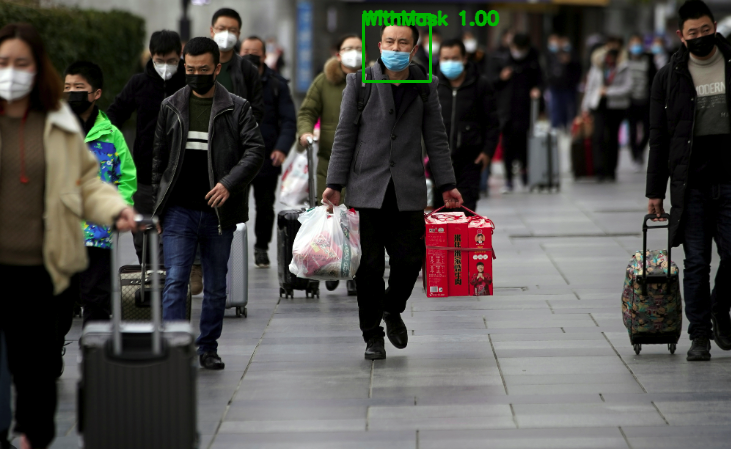
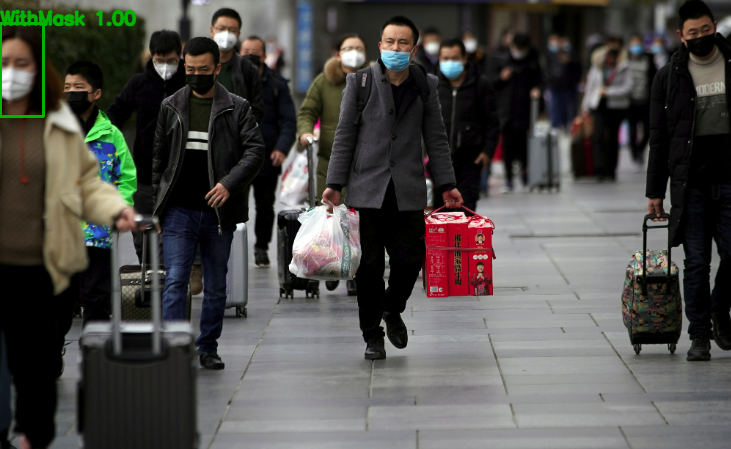
fix: optimize not mask

Changed region(s): [[0.4815, 0.0, 0.6922, 0.1871], [0.0, 0.0, 0.2107, 0.0624], [0.0, 0.2494, 0.0602, 0.2806]]

diff --git a/not_mask/not_mask.py b/not_mask/not_mask.py
@@ -134,13 +134,18 @@ def _load_image(image_path: Path):
 def _build_face_detector():
     if cv2 is None:
         return None
-    cascade_path = Path(cv2.data.haarcascades) / "haarcascade_frontalface_default.xml"
-    if not cascade_path.exists():
-        return None
-    cascade = cv2.CascadeClassifier(str(cascade_path))
-    if cascade.empty():
-        return None
-    return cascade
+    yunet_path = MODELS_DIR / "face_detection_yunet_2023mar.onnx"
+    if not yunet_path.exists():
+        # 回退到 Haar 级联作为备用方案
+        cascade_path = Path(cv2.data.haarcascades) / "haarcascade_frontalface_default.xml"
+        if not cascade_path.exists():
+            return None
+        cascade = cv2.CascadeClassifier(str(cascade_path))
+        if cascade.empty():
+            return None
+        return cascade
+    # 使用 YuNet 预训练模型，精度和速度均远超 Haar
+    return cv2.FaceDetectorYN.create(str(yunet_path), "", (320, 320))
 
 
 def build_csi_gstreamer_pipeline(
@@ -189,15 +194,32 @@ def _detect_faces(face_detector: Any, image: Any, min_face_size: int) -> list[li
     if face_detector is None or cv2 is None:
         return []
 
-    gray = cv2.cvtColor(image, cv2.COLOR_BGR2GRAY)
-    gray = cv2.equalizeHist(gray)
-    faces = face_detector.detectMultiScale(
-        gray,
-        scaleFactor=1.1,
-        minNeighbors=5,
-        minSize=(min_face_size, min_face_size),
-    )
-    return [[float(x), float(y), float(x + w), float(y + h)] for x, y, w, h in faces]
+    if hasattr(face_detector, "setInputSize"):
+        # YuNet 检测
+        height, width = image.shape[:2]
+        face_detector.setInputSize((width, height))
+        _, faces = face_detector.detect(image)
+        if faces is None:
+            return []
+        detected_boxes = []
+        for face in faces:
+            # face: [x, y, w, h, ...]
+            x, y, w, h = face[:4]
+            score = face[-1]
+            if w >= min_face_size and h >= min_face_size and score >= 0.6:
+                detected_boxes.append([float(x), float(y), float(x + w), float(y + h)])
+        return detected_boxes
+    else:
+        # Haar 级联检测 (备用)
+        gray = cv2.cvtColor(image, cv2.COLOR_BGR2GRAY)
+        gray = cv2.equalizeHist(gray)
+        faces = face_detector.detectMultiScale(
+            gray,
+            scaleFactor=1.1,
+            minNeighbors=5,
+            minSize=(min_face_size, min_face_size),
+        )
+        return [[float(x), float(y), float(x + w), float(y + h)] for x, y, w, h in faces]
 
 
 def _expand_box(box: Sequence[float], width: int, height: int, padding_ratio: float) -> list[int]:
@@ -494,6 +516,7 @@ class NotMaskDetector:
         quit_key: str = "q",
         warmup_frames: int = 5,
         max_failed_reads: int = 30,
+        process_every_n_frames: int = 5,  # 新增跳帧参数：每隔几帧推理一次
     ) -> None:
         _require_cv2()
         cap = open_camera(
@@ -506,9 +529,11 @@ class NotMaskDetector:
         if not cap.isOpened():
             raise RuntimeError(f"无法打开摄像头: {camera}")
 
-        print(f"实时识别已启动，摄像头={camera}，按 '{quit_key.upper()}' 退出。")
+        print(f"实时识别已启动，摄像头={camera}，每 {process_every_n_frames} 帧推理一次，按 '{quit_key.upper()}' 退出。")
         frame_count = 0
         failed_reads = 0
+        last_prediction = None  # 缓存上一帧的推理结果
+        last_annotated_frame = None
 
         try:
             for _ in range(max(warmup_frames, 0)):
@@ -532,14 +557,21 @@ class NotMaskDetector:
                 failed_reads = 0
 
                 frame_count += 1
-                prediction = self.predict_frame(
-                    frame,
-                    frame_name=f"camera:{camera}",
-                )
+                
+                # 核心跳帧逻辑：减少对 GPU/CPU 的瞬时过载
+                if frame_count % process_every_n_frames == 1 or last_prediction is None:
+                    last_prediction = self.predict_frame(
+                        frame,
+                        frame_name=f"camera:{camera}",
+                    )
+                    last_annotated_frame = _annotate_image(frame.copy(), last_prediction)
+                else:
+                    # 对于跳过的帧，把上次的框画在当前帧上
+                    last_annotated_frame = _annotate_image(frame.copy(), last_prediction)
 
                 if frame_log_interval > 0 and frame_count % frame_log_interval == 0:
-                    if prediction.face_detections:
-                        for detection in prediction.face_detections:
+                    if last_prediction.face_detections:
+                        for detection in last_prediction.face_detections:
                             status = "NO_MASK" if detection.is_no_mask else "MASK"
                             print(
                                 f"[DETECT] {status} {detection.label}: {detection.confidence:.2f}"
@@ -547,8 +579,7 @@ class NotMaskDetector:
                     else:
                         print("[DETECT] No faces in this frame.")
 
-                annotated_frame = _annotate_image(frame.copy(), prediction)
-                cv2.imshow(window_name, annotated_frame)
+                cv2.imshow(window_name, last_annotated_frame)
 
                 if cv2.waitKey(1) & 0xFF == ord(quit_key.lower()):
                     break

diff --git a/not_mask/not_mask_test.py b/not_mask/not_mask_test.py
@@ -57,6 +57,7 @@ def build_parser() -> argparse.ArgumentParser:
     parser.add_argument("--flip-method", type=int, default=0, help="CSI 摄像头翻转方式")
     parser.add_argument("--warmup-frames", type=int, default=5, help="摄像头预热读取帧数")
     parser.add_argument("--max-failed-reads", type=int, default=30, help="连续读帧失败多少次后终止")
+    parser.add_argument("--process-every-n-frames", type=int, default=5, help="实时摄像头跳帧数（每几帧推理一次）")
     parser.add_argument("--window-name", default="Not Mask Detection", help="实时识别窗口标题")
     parser.add_argument(
         "--output-dir",
@@ -118,6 +119,7 @@ def main() -> None:
             flip_method=args.flip_method,
             warmup_frames=args.warmup_frames,
             max_failed_reads=args.max_failed_reads,
+            process_every_n_frames=args.process_every_n_frames,
         )
         return
 

diff --git a/not_mask/README.md b/not_mask/README.md
@@ -4,7 +4,7 @@
 
 当前实现采用“两阶段”方案：
 
-- 第 1 步：使用 OpenCV 自带的人脸检测器找到人脸区域
+- 第 1 步：使用 OpenCV 深度学习人脸检测器 (YuNet) 找到人脸区域（比传统 Haar 级联更准更快）。
 - 第 2 步：把每张人脸裁剪后送入当前目录下的本地口罩分类模型，判断是 `WithoutMask` / `WithMask`，或兼容 `Face_Mask Not_Found` / `Face_Mask Found`
 
 这样做的目标是尽量复用开源现成权重，快速落地一个可运行的未戴口罩识别模块。
@@ -17,7 +17,8 @@ not_mask/
 │   ├── mask.png
 │   └── not-mask-leijun.jpg
 ├── models/
-│   └── face-mask-detection/ # 本地预训练模型目录
+│   ├── face-mask-detection/ # 本地预训练模型目录
+│   └── face_detection_yunet_2023mar.onnx # YuNet 预训练人脸检测模型
 ├── outputs/                # 运行后自动生成，可按需删除
 ├── not_mask.py             # 未戴口罩识别核心模块
 ├── not_mask_test.py        # 命令行测试入口
@@ -109,11 +110,14 @@ python3.11 not_mask_test.py --camera 0
 
 ```bash
 python3.11 not_mask_test.py --camera csi --width 1280 --height 720 --framerate 30
-python3.11 not_mask_test.py --camera usb --frame-log-interval 10
+python3.11 not_mask_test.py --camera usb --frame-log-interval 10 --process-every-n-frames 5
 python3.11 not_mask_test.py --camera csi --warmup-frames 15 --max-failed-reads 100
 ```
 
-## 轻量化说明
+## 性能优化说明
+
+- **人脸检测升级**：使用 `YuNet` 深度学习模型替代了原本的 `haarcascade`。`YuNet` 检测率极高，漏检少，且针对 CPU 进行了极度优化，速度和精度均大幅提升。
+- **实时推理跳帧**：在摄像头实时检测模式下，默认引入了 `--process-every-n-frames 5` 机制。由于每帧都使用 Swin Transformer 分类会导致严重卡顿，跳帧逻辑只在特定帧进行推理，其它帧复用推理结果绘制，保证了视频流的丝滑流畅。
 
 - 当前目录已经去掉 `.hf-cache/` 方案，模型改为本地 `models/face-mask-detection`
 - 模型目录只保留推理必需文件
